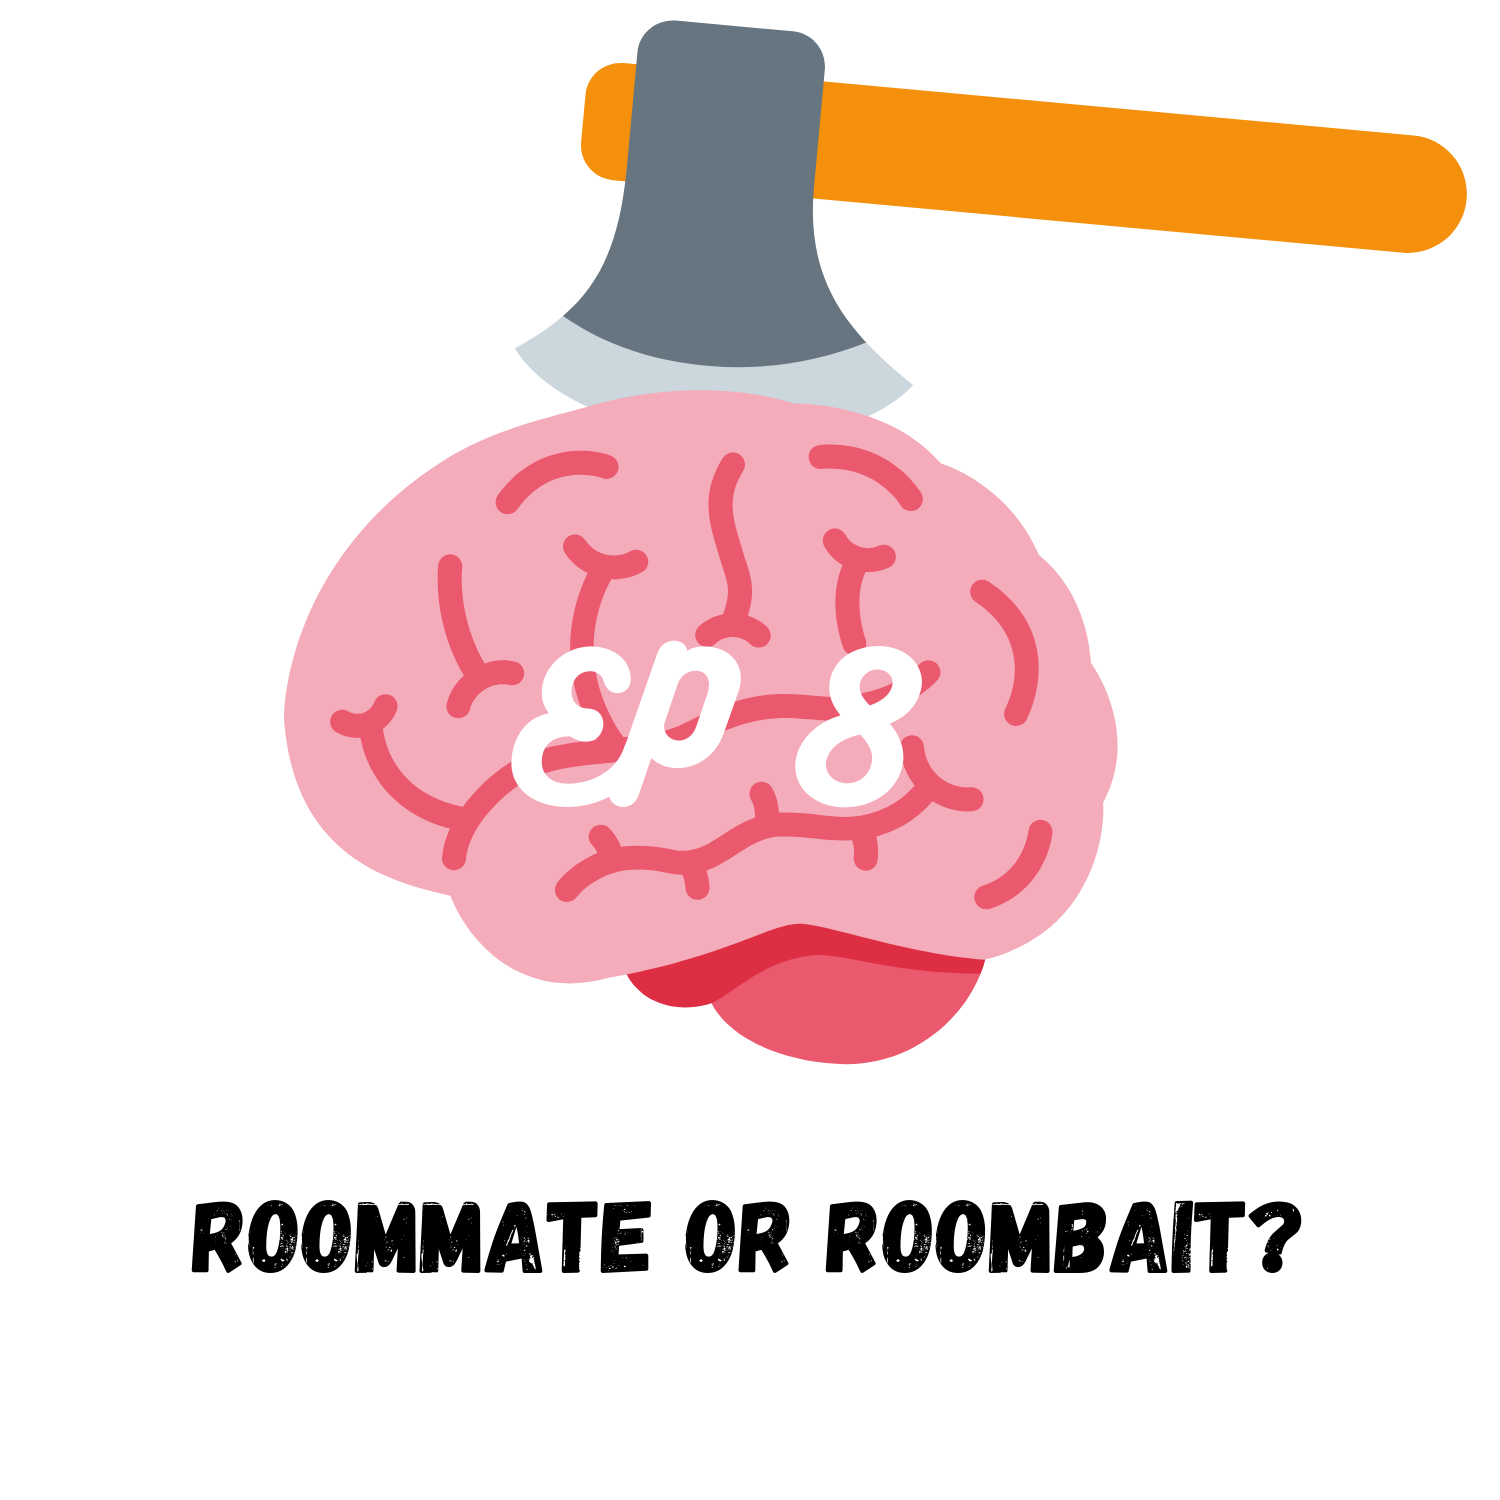
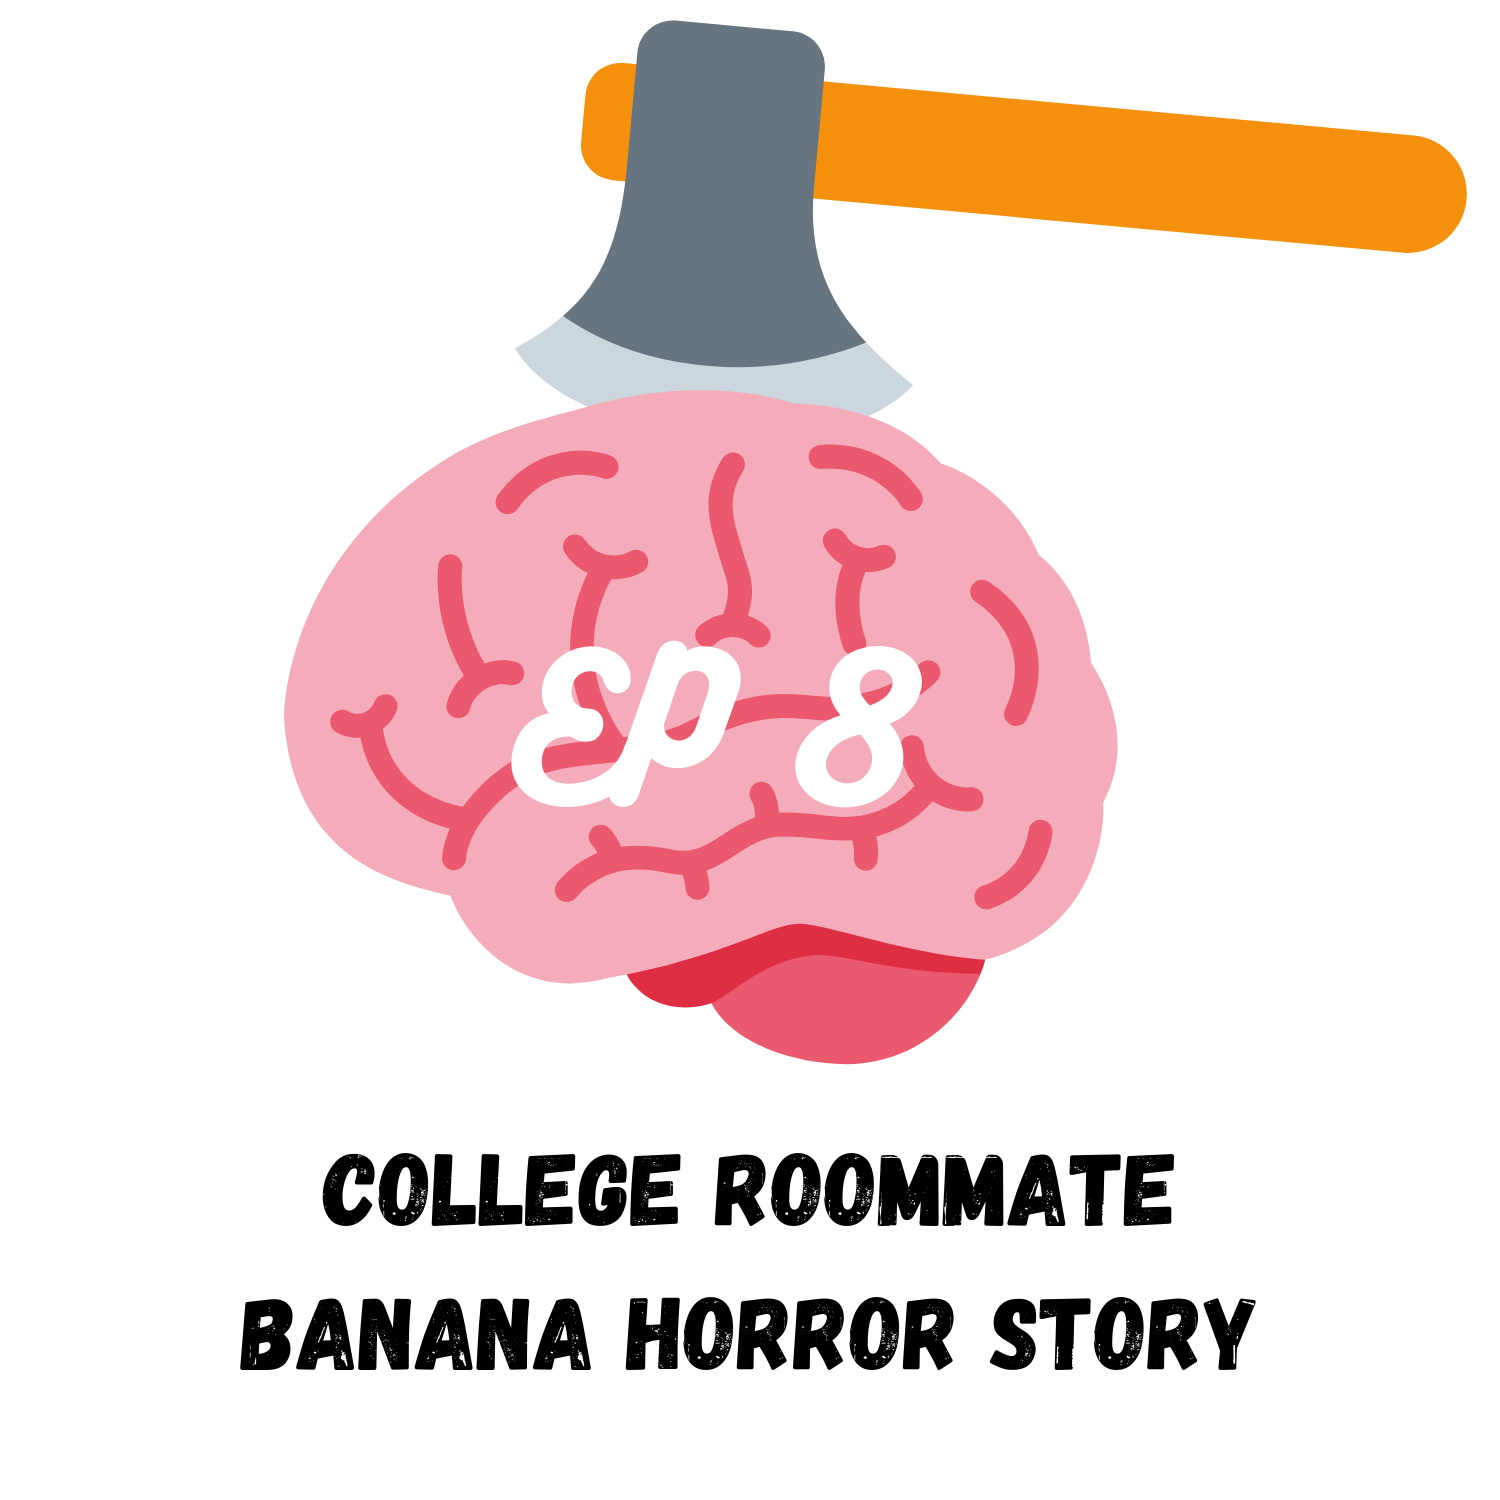
Update Ep 08 title and cover art - itsoverpod

Changed region(s): [[0.1227, 0.7667, 0.8893, 0.92]]

diff --git a/itsoverpod/episode8.html b/itsoverpod/episode8.html
@@ -39,7 +39,7 @@
 			<!-- Main -->
 			<div id="main">
 				<div class="inner">
-					<h1>Episode 8 - Roommate or Roombait? - Ted Yarmoski</h1>
+					<h1>Episode 8 - College Roommate Banana Horror Story - Ted Yarmoski</h1>
 					
 					<p>
 						<strong>August 26, 2020</strong><br><br>
@@ -49,7 +49,7 @@
 						<script src="podcast-distribution-links.js"></script>
 					</p>
 
-					<iframe src="https://anchor.fm/itsover/embed/episodes/Ep-08---Roommate-or-Roombait----Ted-Yarmoski-eim9g5" height="auto" width="100%" frameborder="0" scrolling="no"></iframe><br><br>
+					<iframe src="https://anchor.fm/itsover/embed/episodes/Ep-08---College-Roommate-Banana-Horror-Story---Ted-Yarmoski-eim9g5" height="auto" width="100%" frameborder="0" scrolling="no"></iframe><br><br>
 					
 					<div class="align-center">
 						<a href="episodes" class="button">More episodes</a>
